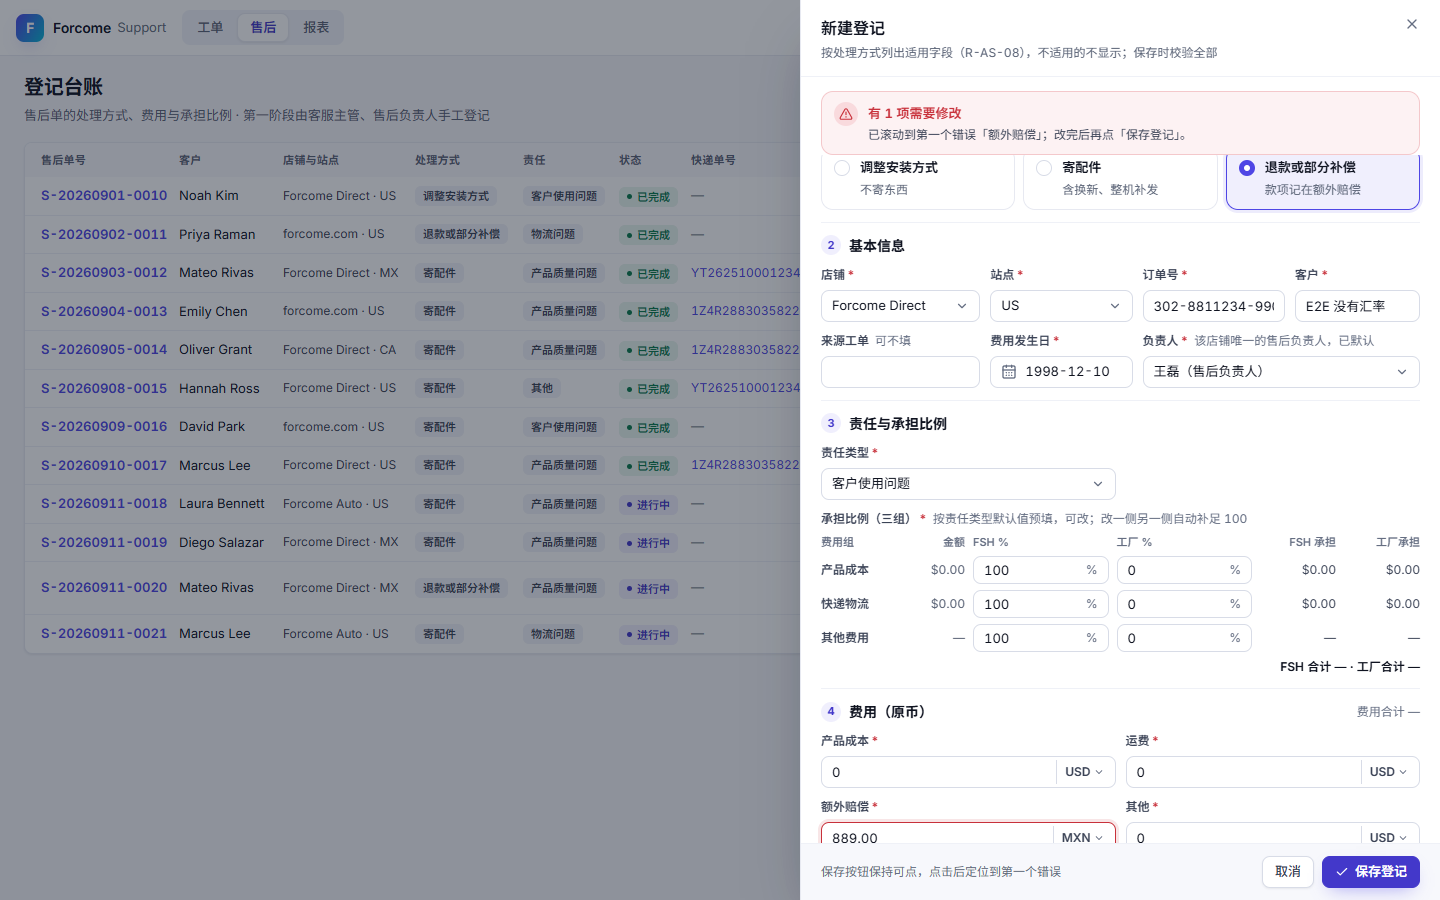
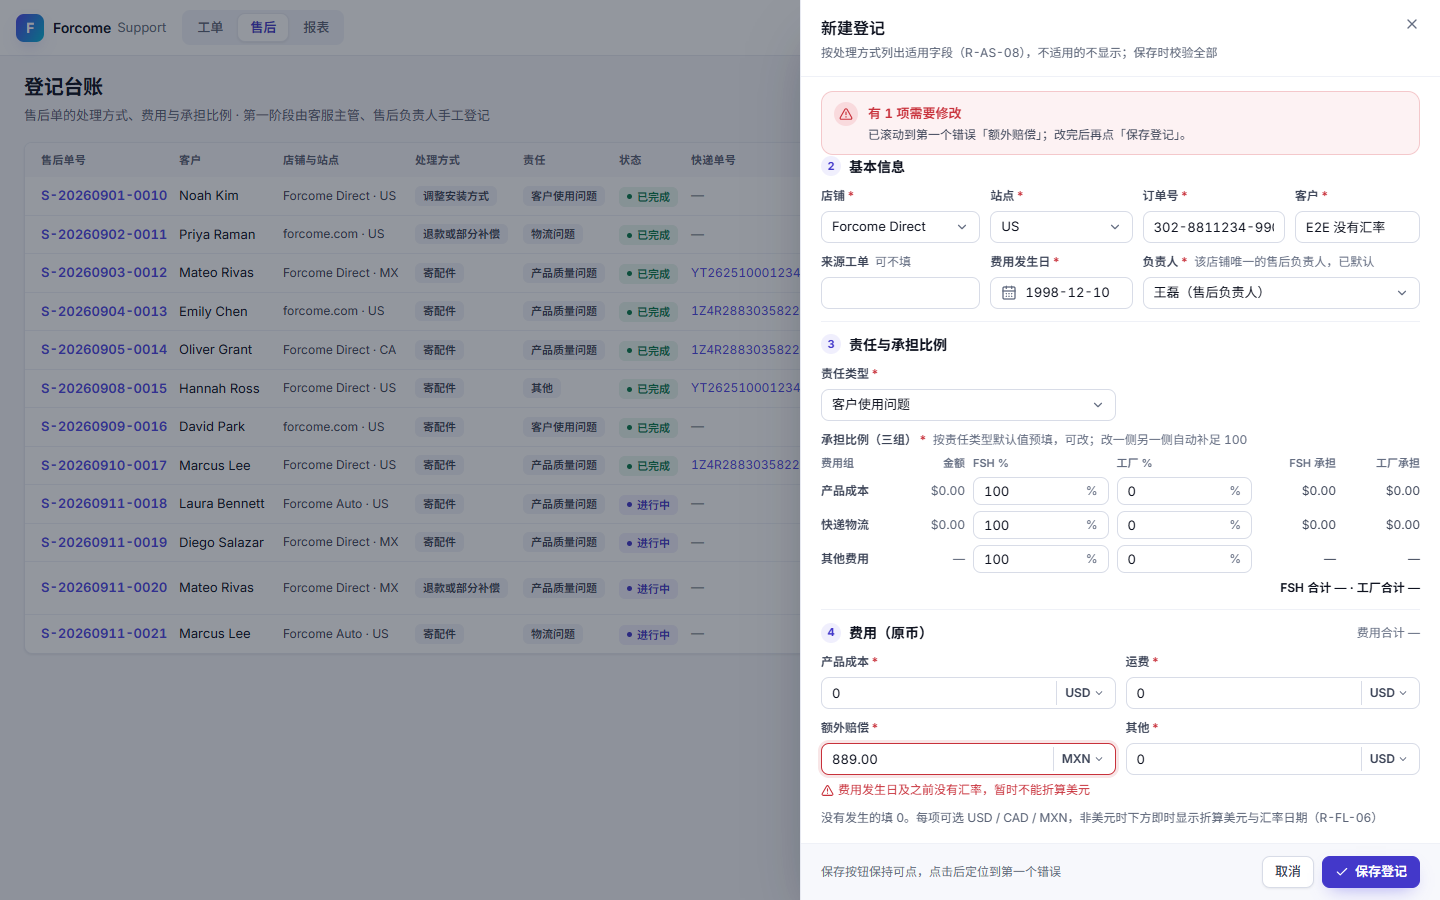
待办 20 验收返工：部署说明恢复全 CRLF；保存后定位到出错字段改为等横幅与报错渲染后再滚动（共用 useFocusField，新建登记与 P18 店铺抽屉都改用），e2e 补报错完整可见的断言，重拍截图并更正核对结论
- docs/部署说明.md 第 112 行补 CR，整文件恢复 CRLF
- components/form-field.tsx 新增 useFocusField：与 setError 同一事件登记，渲染提交后在布局阶段聚焦并把整个字段（含报错）滚到可见区中间；FormField 根元素加 data-form-field
- registration-drawer、store-drawer 改用它（P18 原来的 setFocus 同样在报错渲染前定位）
- e2e：汇率没有汇率、台账靠近底部的 AC-P1-17 报错、台账校验全部、P18 平台标识，断言输入框与报错 toBeInViewport({ ratio: 1 })；变异核对旧逻辑会失败
- 重拍 20-s14-drawer-no-rate*.png；ADR 0007 写回约定；待办 20 Comments 追加「验收返工」并更正截图核对结论

diff --git a/apps/web/src/components/form-field.tsx b/apps/web/src/components/form-field.tsx
@@ -1,5 +1,5 @@
 import { TriangleAlert } from 'lucide-react';
-import type { ReactNode } from 'react';
+import { useLayoutEffect, useState, type ReactNode } from 'react';
 import { Label } from '@/components/ui/label';
 
 /** 写在字段下方的错误（原型 field() 的 error：12 红字、前面 13 的警示图标）；可以同时有几条（如每个进线邮箱一条） */
@@ -41,7 +41,7 @@ export function FormField({
 }) {
   const messages = (typeof error === 'string' ? [error] : (error ?? [])).filter(Boolean);
   return (
-    <div className="flex min-w-0 flex-col gap-1.5">
+    <div data-form-field className="flex min-w-0 flex-col gap-1.5">
       <Label htmlFor={htmlFor} required={required} note={note}>
         {label}
       </Label>
@@ -53,4 +53,29 @@ export function FormField({
       ) : null}
     </div>
   );
+}
+
+/**
+ * 保存后定位到第一个错误（K8「保存后定位到第一个错误」、S14）：返回的函数接收控件的 id，等这次的字段错误与错误横幅都渲染出来、
+ * 布局定下之后，才把焦点放到控件上，并把整个字段（标签、控件、下方的错误）滚到可见区中间。如果先滚动，之后出现的横幅会把滚动区
+ * 压短，下方的报错又把内容撑长，靠近底部的字段与它的报错就会落到可见区外（待办 20 验收返工）。
+ * 和 setError 在同一个事件里调用（同一次渲染提交），在提交后的布局阶段执行；单选组落到第一个选项上。
+ */
+export function useFocusField(): (id: string) => void {
+  const [request, setRequest] = useState<{ readonly id: string } | null>(null);
+  useLayoutEffect(() => {
+    if (!request) return;
+    const element = document.getElementById(request.id);
+    if (!element) return;
+    const control =
+      element.getAttribute('role') === 'radiogroup'
+        ? element.querySelector<HTMLElement>('button')
+        : element;
+    control?.focus({ preventScroll: true });
+    (element.closest<HTMLElement>('[data-form-field]') ?? element).scrollIntoView({
+      block: 'center',
+    });
+  }, [request]);
+  // 每次都是新对象：同一个字段连着两次出错也会再定位
+  return (id) => setRequest({ id });
 }

diff --git a/apps/web/e2e/stores.spec.ts b/apps/web/e2e/stores.spec.ts
@@ -48,6 +48,37 @@ test('管理员打开 P18：渠道卡与示例数据的 4 个店铺', async ({ p
   await expect(page.getByRole('button', { name: '查看审计日志' })).toHaveCount(0);
 });
 
+test('新增店铺：只有最下面的「平台标识」没填时，定位到它，输入框与下方的报错都完整可见（K8）', async ({
+  page,
+}) => {
+  const stamp = Date.now();
+  await loginAs(page, '刘洋');
+  await page.goto('/settings/channels');
+  await page.getByRole('button', { name: '新增店铺' }).click();
+  await chooseOption(page, '平台', 'Shopify');
+  await drawer(page).getByRole('textbox', { name: '店铺名' }).fill(`E2E 定位 ${stamp}`);
+  await drawer(page).getByRole('button', { name: '站点（多选）' }).click();
+  await page.getByRole('menuitemcheckbox', { name: 'MX' }).click();
+  await page.keyboard.press('Escape');
+  const mailboxes = drawer(page).getByRole('textbox', { name: '进线邮箱（可填多个，含别名）' });
+  await mailboxes.fill(`e2e-locate-${stamp}@forcome.test`);
+  await mailboxes.press('Enter');
+
+  await drawer(page).getByRole('button', { name: '保存', exact: true }).click();
+  const platformId = drawer(page).getByRole('textbox', { name: '平台标识 · Shopify 店铺域名' });
+  await expect(platformId).toBeFocused();
+  await expect(platformId).toBeInViewport({ ratio: 1 });
+  await expect(drawer(page).getByText('请填写店铺域名')).toBeInViewport({ ratio: 1 });
+
+  // 不保存：关闭时放弃，店铺表不多出店铺
+  await page.keyboard.press('Escape');
+  await page.getByRole('alertdialog').getByRole('button', { name: '放弃修改' }).click();
+  await expect(drawer(page)).toHaveCount(0);
+  await expect(page.getByTestId('store-row').filter({ hasText: `E2E 定位 ${stamp}` })).toHaveCount(
+    0,
+  );
+});
+
 test('新增店铺：字段下方逐项报错、定位到第一个错误；改正后保存出现在店铺表（K8、AC-ST-01）', async ({
   page,
 }) => {

diff --git a/apps/web/src/pages/settings/store-drawer.tsx b/apps/web/src/pages/settings/store-drawer.tsx
@@ -18,7 +18,7 @@ import {
   OverwriteDialog,
   type EditConflictInfo,
 } from '@/components/edit-conflict';
-import { FieldError, FormField } from '@/components/form-field';
+import { FieldError, FormField, useFocusField } from '@/components/form-field';
 import { Badge } from '@/components/ui/badge';
 import { Button } from '@/components/ui/button';
 import {
@@ -281,8 +281,7 @@ function StoreDrawerContent({
     defaultValues: base ? storeFormOf(base) : emptyStoreForm(),
     shouldFocusError: false,
   });
-  const { control, register, handleSubmit, formState, setError, clearErrors, setFocus, reset } =
-    form;
+  const { control, register, handleSubmit, formState, setError, clearErrors, reset } = form;
   // formState 是按读取订阅的代理：要在渲染时读，G8 才拿得到最新的未保存状态
   const { isDirty, dirtyFields } = formState;
   const platform = useWatch({ control, name: 'platform' });
@@ -327,10 +326,13 @@ function StoreDrawerContent({
     });
   }
 
+  /** 定位到第一个错误：等字段下方的报错渲染出来再滚动（进线邮箱落到输入框，id 同字段） */
+  const focusField = useFocusField();
+
   function showFieldErrors(errors: readonly FormError[]) {
     for (const { field, message } of errors) setError(field, { type: 'server', message });
     const first = firstErrorField(errors);
-    if (first) setFocus(first === 'mailboxes' ? 'mailboxDraft' : first, { shouldSelect: false });
+    if (first) focusField(fieldId(first));
   }
 
   /** 保存失败的处理；字段错误与冲突留在抽屉里显示，返回 true 表示已处理 */

diff --git a/apps/web/src/pages/aftersales/registration-drawer.tsx b/apps/web/src/pages/aftersales/registration-drawer.tsx
@@ -43,7 +43,7 @@ import {
 } from 'react-hook-form';
 import { AffixInput } from '@/components/affix-input';
 import { DateField } from '@/components/date-field';
-import { FieldError, FormField } from '@/components/form-field';
+import { FieldError, FormField, useFocusField } from '@/components/form-field';
 import { LoadError } from '@/components/load-error';
 import { Alert } from '@/components/ui/alert';
 import { Button } from '@/components/ui/button';
@@ -368,16 +368,9 @@ function RegistrationForm({
     onClose();
   }
 
-  /** 定位到字段：处理方式落到第一张卡片，其余落到控件本身（字段都有 id） */
-  function focusField(field: RegistrationFormPath) {
-    const element = document.getElementById(fieldId(field));
-    const target =
-      element?.getAttribute('role') === 'radiogroup'
-        ? element.querySelector<HTMLElement>('button')
-        : element;
-    target?.focus({ preventScroll: true });
-    target?.scrollIntoView({ block: 'center' });
-  }
+  /** 定位到字段（字段都有 id）：等错误横幅与字段下方的报错渲染出来再滚动，处理方式落到第一张卡片 */
+  const focusAfterRender = useFocusField();
+  const focusField = (field: RegistrationFormPath) => focusAfterRender(fieldId(field));
 
   /** 保存失败的处理；字段错误留在抽屉里显示，返回 true 表示已处理 */
   function handledInDrawer(error: unknown): boolean {

diff --git a/.scratch/phase1-reporting/issues/20-汇率.md b/.scratch/phase1-reporting/issues/20-汇率.md
@@ -137,7 +137,7 @@ Blocked by: 19
   - 合计「FSH 合计 $49.39 · 工厂合计 $0.00」，节头「费用合计 $49.39」。
 - `20-s14-drawer-no-rate.png`、`20-s14-drawer-no-rate-saved.png`（周敏，浏览器时钟固定在 1998-12-10，费用发生日默认就是这天）：
   - 保存前：额外赔偿框下灰字「费用发生日及之前没有汇率，暂时不能折算美元」；比例表「其他费用」的金额与两方写「—」，合计写「FSH 合计 — · 工厂合计 —」与「费用合计 —」。
-  - 保存后：顶部横幅「有 1 项需要修改」，已滚动到第一个错误「额外赔偿」；额外赔偿框红框，下方写报错。
+  - 保存后：顶部横幅「有 1 项需要修改」，已滚动到第一个错误「额外赔偿」；额外赔偿框红框，下方写报错。**更正（验收返工）**：最初那张截图里，额外赔偿框被底栏挡住一半，报错文字在可见区之外，这条核对结论当时不成立；定位逻辑修好后已重拍，现在框与报错都完整可见，见文末「验收返工」。
   - 这个状态（口径 ③）已回写进原型 S14 补充小样之二，横幅与报错的样式沿用 S14。
 - 文案：`p13-copy.test.ts` 直接读原型生成物逐字核对。
   - P13 参照页：「$49.39」「MX$889.00 · 汇率 09-10」与悬停说明。
@@ -287,3 +287,32 @@ Blocked by: 19
   - `pnpm db:verify`、`pnpm fixtures:verify` 通过。
 - **部署到开发测试环境**：在 1c0e8f1、工作区干净的状态下跑 `pnpm deploy:staging`，八步全过（准备、构建镜像、启动数据库、执行迁移、灌示例数据、启动 api / worker / caddy、内网 HTTPS 用根证书核对、Playwright 冒烟）；冒烟 18 项通过、0 失败，报告在 `deploy/.state/staging/report.md`。开发测试库里冒烟新建的 S-20261005-0029 已经接口改过汇率：$50.80，1 USD = 17.500000 MXN，来源 manual。
 - **提交**：1c0e8f1（口径确认后的回写与实现），以及写入本节的提交。
+
+### 验收返工（2026-10-05，claude02）
+
+协调者验收核查结论为通过，有 2 处需要返工后才收尾。
+
+**返工 1：`docs/部署说明.md` 换行符混用**
+
+- 问题：f981f5e 新增的汇率那一条（第 112 行）是 LF，整个文件变成 i/mixed（199 行 CR、200 行 LF）。
+- 改动：用二进制方式只给这一行补上 CR，整个文件恢复全 CRLF，提交后 `git ls-files --eol` 为 i/crlf，diff 只有这一行。
+- 核对：本待办改过的其他文件逐个看过 `git ls-files --eol`，没有混用，CRLF 的仍是 CRLF、LF 的仍是 LF。
+
+**返工 2：保存后定位到出错字段时，报错文字在可见区外**
+
+- 问题：新建登记抽屉的 `focusField`（定位逻辑是待办 19 写的）在 `setError` 之后立刻滚动。这时错误横幅和字段下方的报错都还没渲染出来，渲染后横幅把滚动区压短约 78px，报错又把内容撑长。结果靠近底部的字段（例如「没有汇率」时的额外赔偿）被底栏挡住一半，报错文字落在可见区外。协调者用临时 e2e 复现：输入框 y=823–853，报错 y=860–878，底栏约从 y=843 起。我当时的截图 `20-s14-drawer-no-rate-saved.png` 也是这样。
+- 改动（表单通用逻辑）：
+  - `apps/web/src/components/form-field.tsx` 新增 `useFocusField()`：在 `setError` 的同一个事件里登记要定位的控件 id，等错误与横幅在同一次渲染里提交后，再在布局阶段（`useLayoutEffect`）把焦点放到控件上，并把整个字段（`FormField` 的根元素，新加了 `data-form-field`，含标签、控件和下方的报错）滚到可见区中间。单选组落到第一个选项。
+  - 新建登记抽屉 `registration-drawer.tsx` 改用它。对待办 19 的必填、比例、额外赔偿等报错同样生效，它们走的是同一个 `handledInDrawer`。
+  - P18 店铺抽屉 `store-drawer.tsx` 原来用 react-hook-form 的 `setFocus`，同样是在报错渲染前就定位，也改用 `useFocusField`。进线邮箱落到输入框，id 与字段相同。
+- e2e 补可见区断言，都用 `toBeInViewport({ ratio: 1 })`，要求整个元素都在可见区里：
+  - `exchange-rates.spec.ts`「费用发生日及之前没有汇率」：保存后额外赔偿框获得焦点，输入框和「费用发生日及之前没有汇率，暂时不能折算美元」都完整可见。
+  - `ledger.spec.ts` 新增「保存后定位到靠近底部的错误」：退款或部分补偿只把额外赔偿填 0，属于待办 19 的 AC-P1-17 报错。保存后只有这一项错误，额外赔偿框获得焦点，输入框和报错都完整可见；不保存。
+  - `ledger.spec.ts` 原有「保存时校验全部」：第一个错误「责任理由」的报错完整可见。
+  - `stores.spec.ts` 新增 P18「只有最下面的『平台标识』没填时」：保存后平台标识获得焦点，输入框和「请填写店铺域名」都完整可见；放弃，不建店铺。
+  - 变异核对：把 `useFocusField` 换回原来的同步滚动，汇率和台账这两条新断言都失败（toBeInViewport），还原后通过。
+- 重拍截图（1440 × 900；本机开发服务 api 4516、前端 4517，浏览器时钟固定在 1998-12-10）：
+  - `20-s14-drawer-no-rate-saved.png`：横幅「有 1 项需要修改」，已滚动到第一个错误「额外赔偿」。额外赔偿框红框（y≈743–775），下方报错「费用发生日及之前没有汇率，暂时不能折算美元」（y≈789），以及其下的说明，都在底栏（约 y=843 起）之上，完整可见。
+  - `20-s14-drawer-no-rate.png`（保存前）也一起重拍了，画面没有变化。
+- 技术约定写回 ADR 0007「待办 20 验收返工」修订：保存后要等报错渲染出来，再用 `useFocusField` 定位，以后的表单照此。
+- 测试：`pnpm typecheck` 0 错误；`pnpm lint`（含模块边界与 prettier）通过；`pnpm test:unit` 335 项全过；`pnpm test:integration` 177 项全过；`pnpm test:e2e` 20 项全过（新增 2 项）。

diff --git a/docs/adr/0007-前端用Vite单页应用与工厂工作台独立入口.md b/docs/adr/0007-前端用Vite单页应用与工厂工作台独立入口.md
@@ -64,3 +64,7 @@ status: accepted
 - **当前成员**：`CurrentMemberContext` / `useCurrentMember` 从路由文件挪到 `lib/current-member.ts`，页面按当前成员的角色决定按钮与列（P13：`can(…, 'aftersales.register')` 才有「新建登记」，`canViewFinance` 才有金额列；接口另外按同一份矩阵强制与过滤）。
 - **新建登记抽屉**（S14，宽 640）：沿用 07 的表单约定（保存一律交给接口、一次列全、改了就撤掉该字段的错误、G8）。保存后有字段错误时，抽屉标题区下方给危险横幅「有 N 项需要修改 · 已滚动到第一个错误「字段名」」（不随正文滚动），并定位到最靠上的错误；字段的先后由 `contracts` 的 `registrationFields`（R-AS-08 字段，按抽屉顺序）展开，定位按字段的 DOM id（`useId` 前缀 + 字段路径），处理方式落到第一张卡片。就地的比例补足（改一侧另一侧补足 100，填错时另一侧清空显示「—」）、比例与金额的判断都用 `contracts` 里同一条规则（`isPercent`、`factoryRatiosOf`、`isValidAmount`）。金额写法统一用 `contracts` 的 `formatMoney`（`Intl.NumberFormat` 的 en-US 货币格式：$ / CA$ / MX$）。
 - **P13 表格**：列定义成数据（表头、对齐、两种视角的列宽、单元格），列宽照第一阶段的两个模板换算；文案在 `pages/aftersales/p13-copy.ts`，`p13-copy.test.ts` 读原型逐字核对。
+
+## 修订（2026-10-05，待办 20 验收返工）
+
+- **保存后定位到第一个错误，要等报错渲染出来再滚动**：表单一律用 `components/form-field.tsx` 的 `useFocusField()`。它与 `setError` 在同一个事件里登记要定位的控件 id，等这次的字段错误（以及新建登记抽屉的错误横幅）在同一次渲染里提交后，在布局阶段（`useLayoutEffect`）先把焦点放到控件上，再把整个字段——`FormField` 的根元素（`data-form-field`），含标签、控件和下方的报错——滚到可见区中间；单选组落到第一个选项。之所以不在 `setError` 后立刻滚动（react-hook-form 的 `setFocus` 也是立刻），是因为之后出现的横幅会把滚动区压短、报错会把内容撑长，靠近底部的字段和它的报错会落到可见区外。新建登记抽屉与 P18 店铺抽屉都已改用它，以后的表单照此。e2e 对靠近底部的出错字段与报错文字断言 `toBeInViewport({ ratio: 1 })`。
